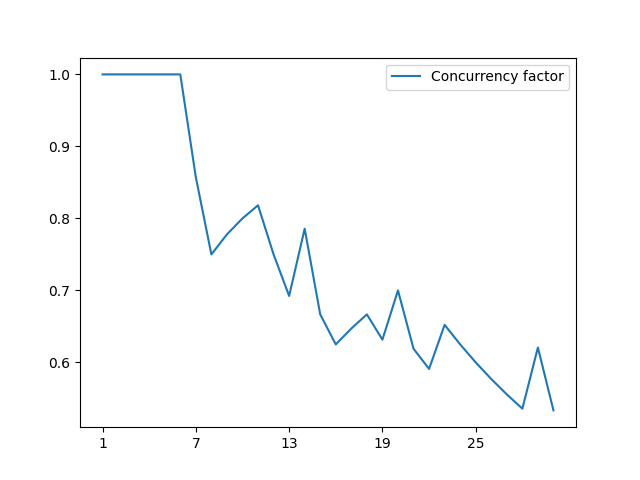
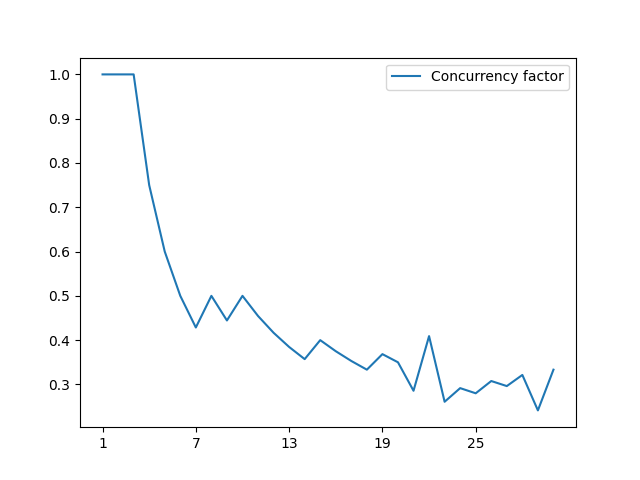
upd simulation

diff --git a/packages/simulation/src/simulator.py b/packages/simulation/src/simulator.py
@@ -3,9 +3,9 @@
 from math import ceil
 from typing import Dict, List
 
-from src.chargepoint import Chargepoint
-from src.vehicle import Vehicle
-from src.distributions import sample_arrival, sample_charging_energy
+from .chargepoint import Chargepoint
+from .vehicle import Vehicle
+from .distributions import sample_arrival, sample_charging_energy
 
 
 class Simulator:
@@ -18,6 +18,7 @@ class Simulator:
         consumption_kwh_per_100km: float = 18.0,
         days: int = 365,
         interval_minutes: int = 15,
+        arrival_multiplier: float = 1,
     ):
         """
         Initialize the simulator.
@@ -33,7 +34,10 @@ class Simulator:
         self.power_per_chargepoint_kw = power_per_chargepoint_kw
         self.consumption_kwh_per_100km = consumption_kwh_per_100km
         self.days = days
+        if interval_minutes > 60:
+            raise ValueError("Interval minutes must be less than or equal to 60")
         self.interval_minutes = interval_minutes
+        self.arrival_multiplier = arrival_multiplier
 
         self.chargepoints = [
             Chargepoint(power_per_chargepoint_kw) for _ in range(num_chargepoints)
@@ -50,17 +54,14 @@ class Simulator:
         """
         total_intervals = ceil((self.days * 24 * 60) / self.interval_minutes)
 
-        # Add one extra interval to account for the last interval (we start from 0 for the first interval set up)
-        for interval_idx in range(total_intervals + 1):
+        # at 0th interval, we do not have any arrivals
+        for interval_idx in range(1, total_intervals + 1):
             # Determine hour of day for arrival probability
             hour = ((interval_idx * self.interval_minutes) // 60) % 24
 
             # Perform charging step for all chargepoints
             interval_energy = self._charge_step()
-            # self._arrival_step(hour) # according to the description, that is not the case
-            self._arrival_each_chargepoint_step(
-                hour
-            )  # models arrival for each chargepoint independently
+            self._arrival_step(hour)
             power_demand = 0
             for chargepoint in self.chargepoints:
                 if chargepoint.is_charging():
@@ -103,31 +104,40 @@ class Simulator:
 
     def _arrival_step(self, hour: int) -> float:
         """
-        Perform one arrival step for all chargepoints.
-        """
-        if not sample_arrival(hour):
-            return
-
-        energy_needed = sample_charging_energy(self.consumption_kwh_per_100km)
-
-        if energy_needed == 0:
-            return
-
-        chargepoint = next((c for c in self.chargepoints if c.vehicle is None), None)
-
-        if chargepoint is None:
-            return
-        chargepoint.vehicle = Vehicle(energy_needed)
-
-    def _arrival_each_chargepoint_step(self, hour: int) -> float:
-        """
         Perform one arrival step for each chargepoint.
         """
         for chargepoint in self.chargepoints:
-            if chargepoint.vehicle is None:
-                if sample_arrival(hour):
-                    energy_needed = sample_charging_energy(
-                        self.consumption_kwh_per_100km
-                    )
-                    if energy_needed > 0:
-                        chargepoint.vehicle = Vehicle(energy_needed)
+            if chargepoint.vehicle is not None:
+                continue
+
+            if not sample_arrival(hour, self.interval_minutes, self.arrival_multiplier):
+                continue
+
+            energy_needed = sample_charging_energy(self.consumption_kwh_per_100km)
+            if energy_needed <= 0:
+                continue
+
+            chargepoint.vehicle = Vehicle(energy_needed)
+
+
+if __name__ == "__main__":
+    import matplotlib.pyplot as plt
+
+    energies = []
+    concurrency_factors = []
+    N = 100
+    for i in range(N):
+        print(f"Running simulation {i + 1} of {N}")
+        simulator = Simulator()
+        results = simulator.run()
+        energies.append(results["total_energy_kwh"])
+        concurrency_factors.append(results["concurrency_factor"])
+    plt.figure(figsize=(10, 5))
+    plt.subplot(1, 2, 1)
+    plt.hist(energies)
+    plt.xlabel("Energy")
+    plt.subplot(1, 2, 2)
+    plt.hist(concurrency_factors)
+    plt.xlabel("Concurrency factor")
+    plt.tight_layout()
+    plt.show()

diff --git a/packages/simulation/src/distributions.py b/packages/simulation/src/distributions.py
@@ -5,7 +5,7 @@ import numpy as np
 
 def arrival_probability(hour: int) -> float:
     """
-    Calculate arrival probability T1 for a given hour of the day.
+    Calculate arrival probability (within 1 hour interval) T1 for a given hour of the day.
 
     Args:
         hour: Hour of the day (0-23)
@@ -38,7 +38,9 @@ def sample_charging_needs_km() -> int:
         Sampled distance in km
     """
     km = [0, 5, 10, 20, 30, 50, 100, 200, 300]
-    probabilities = np.array([0.3431, 0.049, 0.098, 0.1176, 0.0882, 0.1176, 0.1078, 0.049, 0.0294])
+    probabilities = np.array(
+        [0.3431, 0.049, 0.098, 0.1176, 0.0882, 0.1176, 0.1078, 0.049, 0.0294]
+    )
 
     return np.random.choice(km, p=probabilities / probabilities.sum())
 
@@ -56,15 +58,20 @@ def sample_charging_energy(consumption_kwh_per_100km: float = 18.0) -> float:
     return sample_charging_needs_km() / 100 * consumption_kwh_per_100km
 
 
-def sample_arrival(hour: int) -> bool:
+def sample_arrival(hour: int, interval_minutes: int, arrival_multiplier: float) -> bool:
     """
     Sample whether an arrival occurs in a given hour.
 
+    Note: doesn't account for the intervals spanning multiple hours.
+
     Args:
         hour: Hour of the day (0-23)
-
+        interval_minutes: Length of the interval in minutes
+        arrival_multiplier: Multiplier for the arrival probability
     Returns:
         True if arrival occurs, False otherwise
     """
     probability = arrival_probability(hour)
-    return np.random.random() < probability
+    return (
+        np.random.random() < probability * (interval_minutes / 60) * arrival_multiplier
+    )

diff --git a/packages/simulation/main.py b/packages/simulation/main.py
@@ -41,6 +41,12 @@ def main():
         default=365,
         help="Number of days to simulate (default: 365)",
     )
+    parser.add_argument(
+        "--arrival-multiplier",
+        type=float,
+        default=1,
+        help="Multiplier for the arrival probability (default: 1)",
+    )
 
     args = parser.parse_args()
 
@@ -49,6 +55,7 @@ def main():
     print(f"  Power: {args.power} kW per chargepoint")
     print(f"  Consumption: {args.consumption} kWh/100km")
     print(f"  Duration: {args.days} days")
+    print(f"  Arrival multiplier: {args.arrival_multiplier}")
     print()
 
     simulator = Simulator(
@@ -56,6 +63,7 @@ def main():
         power_per_chargepoint_kw=args.power,
         consumption_kwh_per_100km=args.consumption,
         days=args.days,
+        arrival_multiplier=args.arrival_multiplier,
     )
 
     results = simulator.run()

diff --git a/packages/simulation/src/chargepoint.py b/packages/simulation/src/chargepoint.py
@@ -1,6 +1,6 @@
 """Chargepoint model for EV charging simulation."""
 
-from src.vehicle import Vehicle
+from .vehicle import Vehicle
 
 
 class Chargepoint:

diff --git a/packages/simulation/README.md b/packages/simulation/README.md
@@ -43,7 +43,7 @@ python3 main.py
 Run with custom parameters:
 
 ```bash
-python3 main.py --chargepoints 20 --power 11.0 --consumption 18.0 --days 365
+python3 main.py --chargepoints 20 --power 11.0 --consumption 18.0 --days 365 --arrival-multiplier 1
 ```
 
 **Arguments:**
@@ -52,6 +52,7 @@ python3 main.py --chargepoints 20 --power 11.0 --consumption 18.0 --days 365
 - `--power`: Power per chargepoint in kW (default: 11.0)
 - `--consumption`: Vehicle consumption in kWh per 100km (default: 18.0)
 - `--days`: Number of days to simulate (default: 365)
+- `--arrival-multiplier`: Multiplier for the arrival probability (default: 1)
 
 #### Output
 
